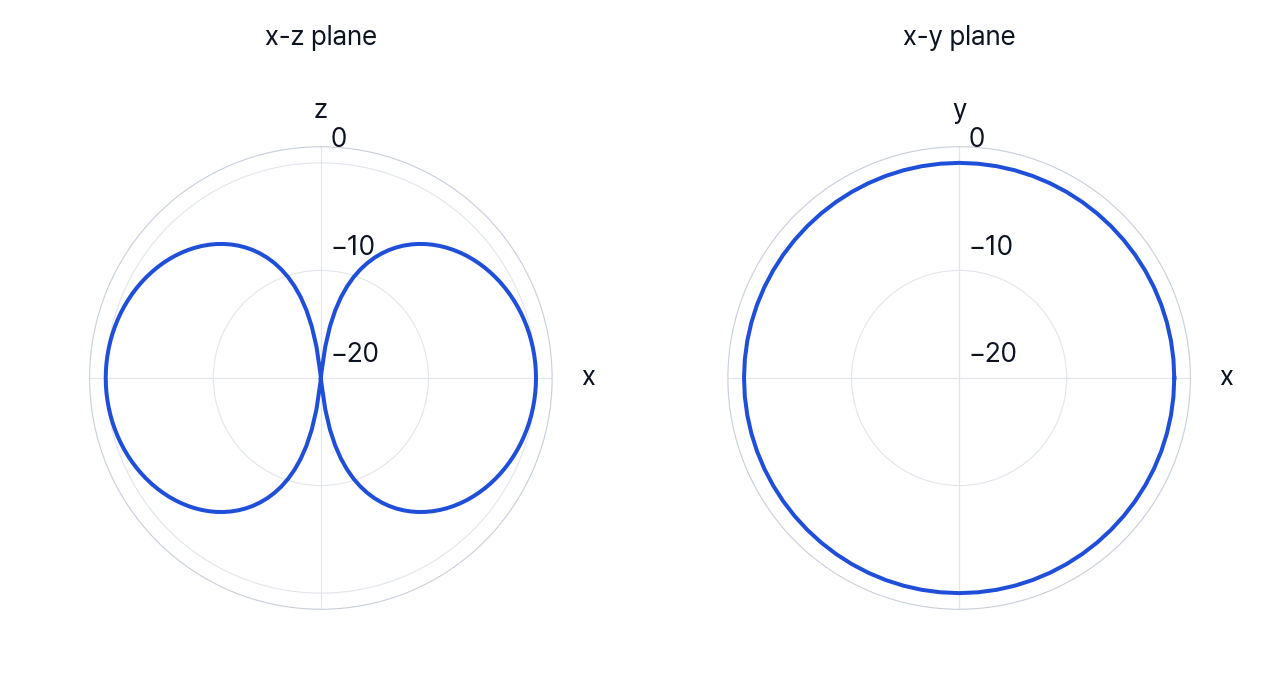
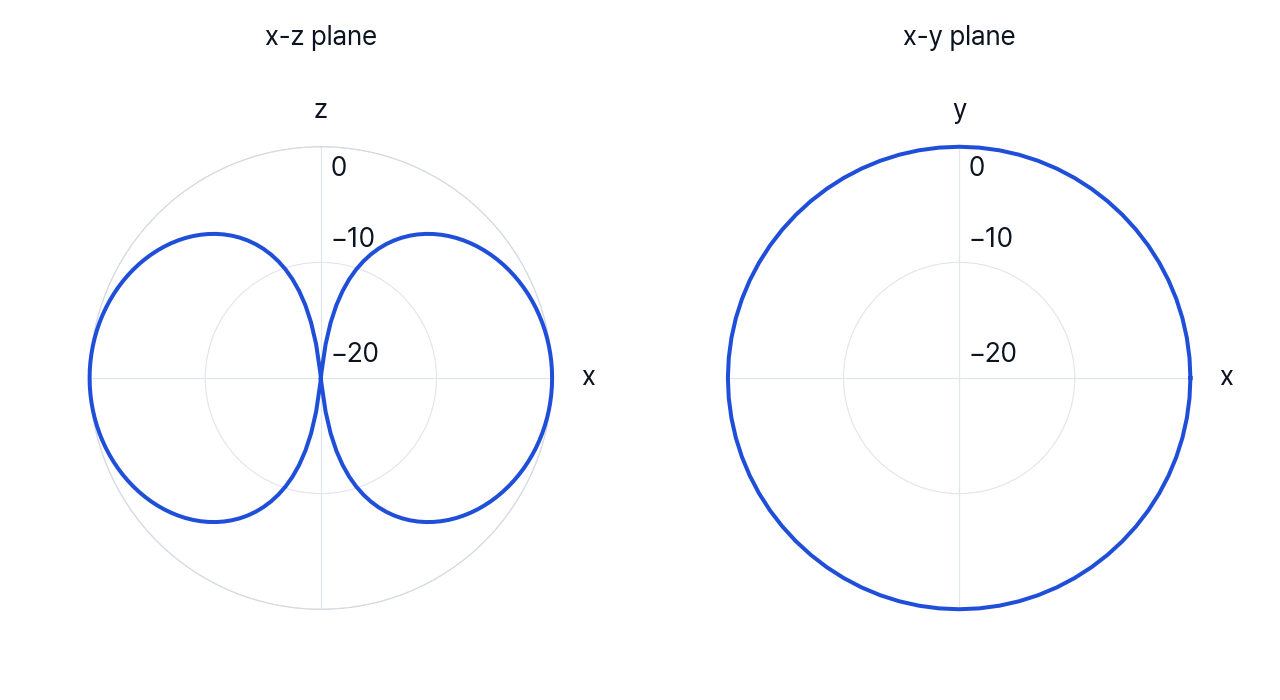
docs: substrate and ground through the absorber, the 0 dB ring, whole map samples, clearer captions

diff --git a/docs/public/measure/far-field-and-rcs.md b/docs/public/measure/far-field-and-rcs.md
@@ -48,13 +48,13 @@ pattern_db = radiation_pattern(ff)   # (n_freqs, n_theta, n_phi), peak = 0 dB
 ```
 
 <figure data-rfx="media">
-  <img src="/rfx/measure/assets/far-field-and-rcs/structure.png" loading="lazy" alt="Section through a point source and a probe inside a square far-field box, which lies inside the absorber." />
-  <figcaption>The model as built, cut at y = 100 mm: the box requested from 45 to 155 mm lands at 44 and 156 mm on the grid. The Ez source and probe samples sit at z = 102 mm, half a cell above their nodes.</figcaption>
+  <img src="/rfx/measure/assets/far-field-and-rcs/structure.png" loading="lazy" alt="Section through a point source and a probe inside a square far-field box, which stays clear of the surrounding absorber." />
+  <figcaption>The model as built, cut at y = 100 mm: on each axis the box was requested from 45 to 155 mm and is built from 44 to 156 mm. The source and the probe are Ez samples, which sit half a cell above the grid node at z = 100 mm, so at z = 102 mm.</figcaption>
 </figure>
 
 <figure data-rfx="media">
   <img src="/rfx/measure/assets/far-field-and-rcs/pattern.png" loading="lazy" alt="Two polar plots of the far field: two lobes with nulls along z in the x-z plane, and a circle in the x-y plane." />
-  <figcaption>The pattern this run returns at 3 GHz in two planes, in dB below its peak, cut off at −20 dB. It comes from one 4 mm mesh.</figcaption>
+  <figcaption>The pattern this run returns at 3 GHz in two planes, in dB relative to its peak, on a radial scale that ends at −20 dB at the centre. It comes from one 4 mm mesh.</figcaption>
 </figure>
 
 `compute_far_field` returns a `FarFieldResult` with `E_theta`, `E_phi`,
